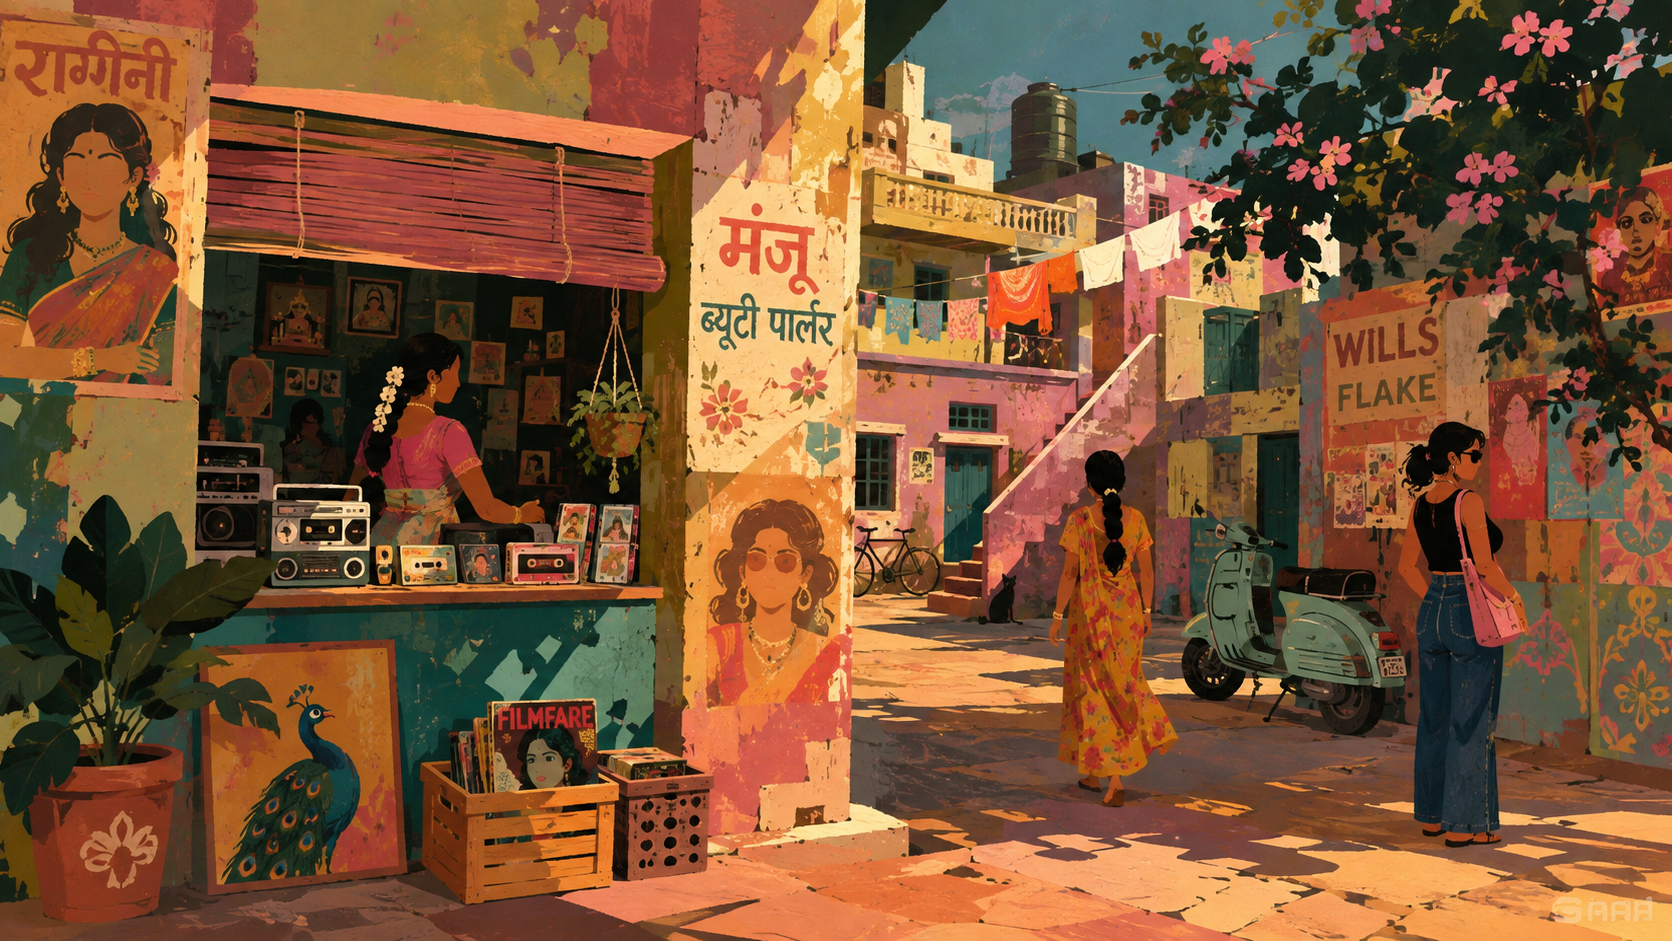
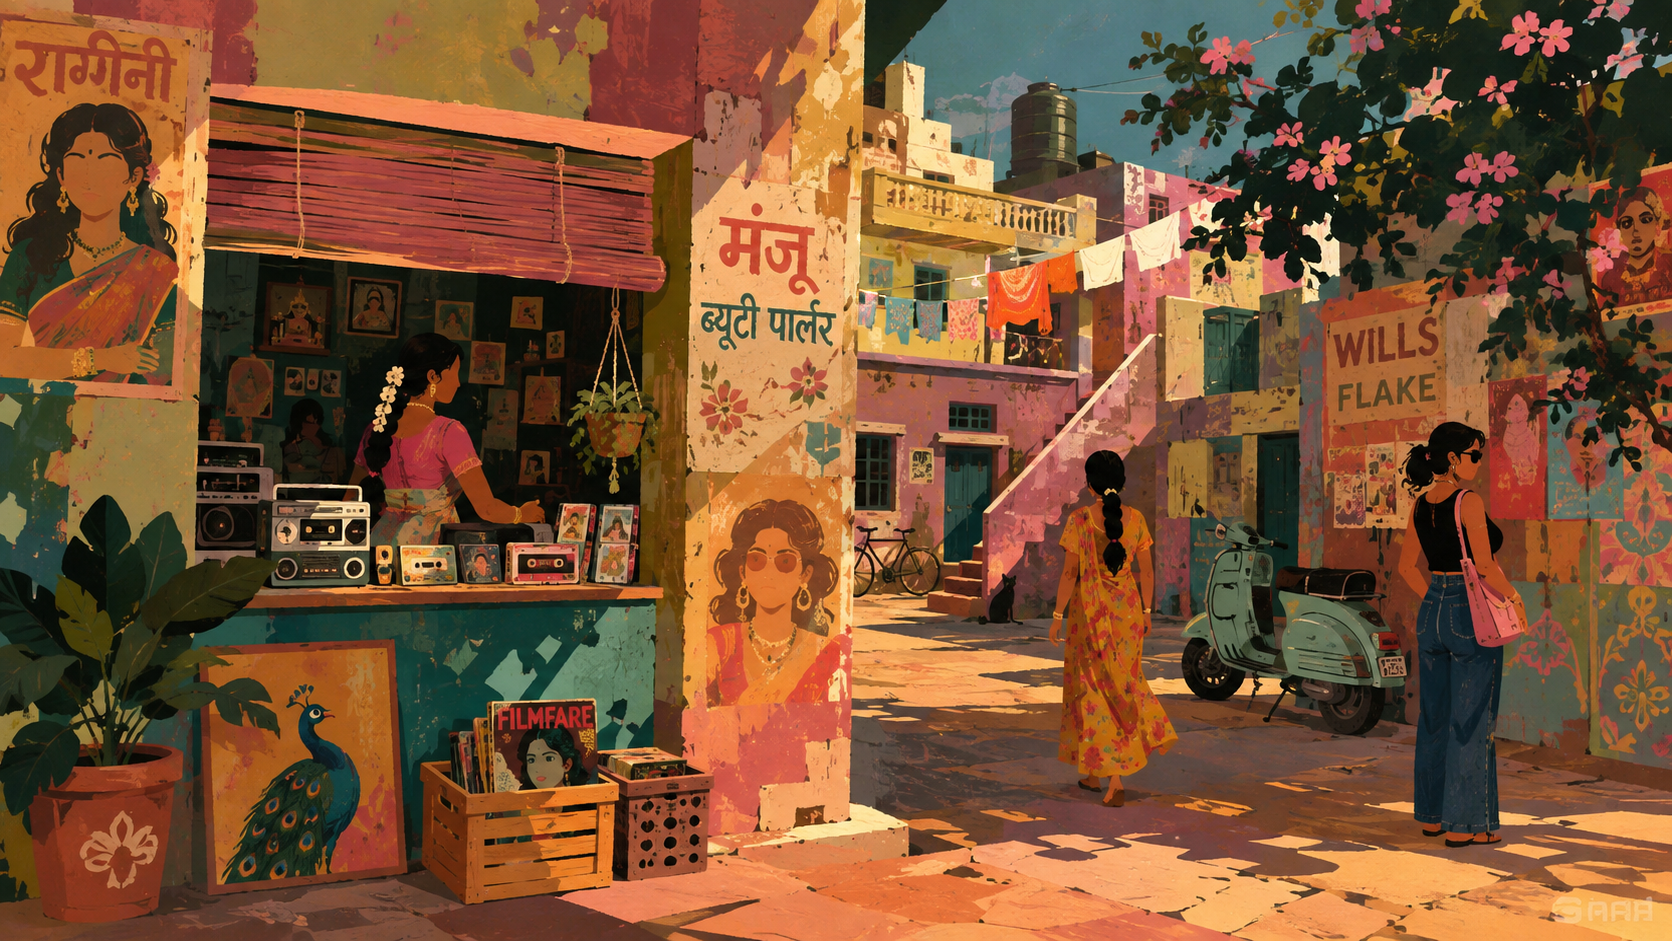
Update playlists and refine homepage

Changed region(s): [[0.4043, 0.339, 0.6531, 0.5855], [0.4976, 0.2157, 0.622, 0.339]]

diff --git a/app/page.tsx b/app/page.tsx
@@ -25,8 +25,13 @@ export default function HomePage() {
       <section className="relative z-10 flex min-h-dvh flex-col items-center px-6 pb-44 pt-[54vh] text-center sm:pt-[62vh]">
         <div className="w-full max-w-2xl">
 
-          {/* PICK YOUR SHOR */}
-          <p className="font-poppins mb-5 text-[12px] font-bold uppercase tracking-[0.18em] text-white">
+          <p className="font-poppins mb-6 -mt-6 text-[12.8px] font-semibold leading-relaxed text-white [text-shadow:0_2px_12px_rgba(0,0,0,0.9),0_0_4px_rgba(0,0,0,0.8)] max-sm:mt-0.5 max-sm:text-[14px] max-sm:text-white/65">
+  Welcome to Aishee’s multiverse. Mood badlo, mahol badlo, playlist badlo —
+  and most importantly, bas enjoy karo.
+</p>
+
+{/* PICK YOUR SHOR */}
+          <p className="font-poppins mb-5 mt-4 text-[12px] font-bold uppercase tracking-[0.18em] text-white sm:mt-10.5 max-sm:text-white/70">
             Pick your shor
           </p>
 
@@ -39,7 +44,8 @@ export default function HomePage() {
             >
               <div className="flex items-center justify-between">
                 <span className="text-xl text-white">
-                  शोर <span className="font-poppins text-white/55">Radio</span>
+                  <span className="text-[22.4px] sm:text-[19.4px]">शोर</span>{" "}
+<span className="font-poppins text-white/55">Radio</span>
                 </span>
 
                 <span className="text-xs text-white/40 transition group-hover:translate-x-1 group-hover:text-white/80">
@@ -80,7 +86,8 @@ export default function HomePage() {
             >
               <div className="flex items-center justify-between">
                 <span className="text-xl text-white">
-                  आइ<span className="font-poppins text-white/55">CONIC</span>
+<span className="text-[22.9px] sm:text-[19.9px]">आइ</span>
+                  <span className="font-poppins text-white/55">CONIC</span>
                 </span>
 
                 <span className="text-xs text-white/40 transition group-hover:translate-x-1 group-hover:text-white/80">
@@ -101,7 +108,7 @@ export default function HomePage() {
               <div className="flex items-center justify-between">
                 <span className="text-xl text-white">
   <span className="font-poppins">Peak</span>{" "}
-  <span className="text-white/55">सुन्दरता</span>
+  <span className="text-[22.4px] text-white/55 sm:text-[19.4px]">सुन्दरता</span>
 </span>
 
                 <span className="text-xs text-white/40 transition group-hover:translate-x-1 group-hover:text-white/80">
@@ -121,7 +128,9 @@ export default function HomePage() {
             >
               <div className="flex items-center justify-between">
                 <span className="text-xl text-white">
-                  देखो, <span className="font-poppins text-white/55">Magar Pyaar Se</span>
+                  <span className="text-[22.4px] sm:text-[19.4px]">देखो,</span>{" "}
+
+<span className="font-poppins text-white/55">Magar Pyaar Se</span>
                 </span>
 
                 <span className="text-xs text-white/40 transition group-hover:translate-x-1 group-hover:text-white/80">
@@ -141,7 +150,8 @@ export default function HomePage() {
             >
               <div className="flex items-center justify-between">
                 <span className="text-xl text-white">
-                  इश्क़ <span className="font-poppins text-white/55">- Vishq</span>
+                  <span className="text-[22.4px] sm:text-[19.4px]">इश्क़</span>{" "}
+<span className="font-poppins text-white/55">- Vishq</span>
                 </span>
 
                 <span className="text-xs text-white/40 transition group-hover:translate-x-1 group-hover:text-white/80">
@@ -162,7 +172,8 @@ export default function HomePage() {
 >
   <div className="flex items-center justify-between">
     <span className="text-xl text-white">
-      कशिश <span className="font-poppins text-white/55">- The Other Side</span>
+      <span className="text-[22.4px] sm:text-[19.4px]">कशिश</span>{" "}
+<span className="font-poppins text-white/55">- The Other Side</span>
     </span>
 
 <span className="text-xs text-white/40 transition group-hover:translate-x-1 group-hover:text-white/80">

diff --git a/app/components/Player.tsx b/app/components/Player.tsx
@@ -34,45 +34,60 @@ const SHOR_TRACKS: Track[] = [
     artist: "Shashwat Sachdev · Romy · Pawni Pandey",
   },
   {
-    id: "4vHRQnzGcKEtqsLH70tAms",
-    title: "Raanjhan",
-    artist: "Sachet-Parampara · Parampara Tandon",
-  },
-  {
     id: "7G5wpuR61ABrT7R1snos7C",
     title: "Kalank – Title Track",
     artist: "Pritam · Arijit Singh",
-  },
-  {
-    id: "2mVqfKbKGmxVXlVswhlI5T",
-    title: "Chaap Tilak",
-    artist: "Abida Parveen · Rahat Fateh Ali Khan",
-  },
-  {
-    id: "4gOjXXEwYz2WS9s6ixgUtd",
-    title: "Tani Sun La",
-    artist: "Vaibhav Bundhoo · Traditional",
   },
   {
     id: "6hVq4MGBhPIniEmpGbJIWR",
     title: "Hardum Humdum",
     artist: "Pritam · Arijit Singh",
   },
-  {
-    id: "2QophXhN2Ls2URfoPmiviC",
-    title: "Kho Gaye",
-    artist: "Taaruk Raina · Mismatched Cast",
+ {
+  id: "6U28uT3sr2xZlTniZEWiHI",
+  title: "Chaudhary",
+  artist: "Mame Khan",
   },
-  {
-    id: "4SrVkrpAyykhbVnATbfvPV",
-    title: "Dhadak – Title Track",
-    artist: "Ajay Gogavale · Shreya Ghoshal",
-  },
-  {
-    id: "2tEV3uJ6RlBiZPWaS7aJmb",
-    title: "Pehli Baar",
-    artist: "Ajay Gogavale",
-  },
+{
+  id: "3pRF060IEOI5XSQAvONgSt",
+  title: "Chale Jaise Hawayein",
+  artist: "K.K., Vasundhara Das",
+},
+{
+  id: "00slEv0AYGnW85H84XsmGz", 
+  title: "Phir Milenge Chalte Chalte",
+  artist: "Sonu Nigam",
+},
+{
+  id: "6kOuIhlzgPlqlrWPudpSHL",
+  title: "Dhadak Dhadak",
+  artist: "Adnan Sami, Sunidhi Chauhan, Udit Narayan",
+},
+{
+  id: "3ayMReTwLoo6jAg7adDqyz",
+  title: "Har Funn Maula",
+  artist: "Tanishk Bagchi, Zara Khan, Amitabh Bhattacharya",
+},
+ {
+  id: "3UwGbGK1pYHt3kXIgc895b",
+  title: "Babli Badmaash",
+  artist: "Sunidhi Chauhan",
+},
+{
+  id: "1UzYybFkJcyvB2hkL129GA",
+  title: "Go Go Govinda",
+  artist: "Mika Singh, Amrita Kak",
+},
+{
+  id: "6FT6cSP37XOgdxDDe2olAD",
+  title: "Radhe Radhe",
+  artist: "Amit Trivedi",
+},
+{
+  id: "3ndW5P3tLaoLSn30qURXB5",
+  title: "Jee Le",
+  artist: "Mohit Chauhan",
+},
   {
     id: "743ja6r6aTqAL00ynZGG2q",
     title: "Ei Srabon",
@@ -82,6 +97,21 @@ const SHOR_TRACKS: Track[] = [
     id: "77FL46gBFDDbKHJpQwc1b3",
     title: "Jawl Phoring",
     artist: "Silajit · Anupam Roy",
+  },
+  {
+    id: "2QophXhN2Ls2URfoPmiviC",
+    title: "Kho Gaye",
+    artist: "Taaruk Raina · Mismatched Cast",
+  },  
+  {
+    id: "2tEV3uJ6RlBiZPWaS7aJmb",
+    title: "Pehli Baar",
+    artist: "Ajay Gogavale",
+  },
+  {
+    id: "4SrVkrpAyykhbVnATbfvPV",
+    title: "Dhadak – Title Track",
+    artist: "Ajay Gogavale · Shreya Ghoshal",
   },
   {
     id: "3jxNbVmugKWFFc3YAVl0sD",
@@ -713,6 +743,11 @@ const ROMANTIC_TRACKS: Track[] = [
     artist: "Various Artists",
   },
   {
+  id: "7gw6rSstVq9CmuQAaZhWm8",
+  title: "Asalaam-e-Ishqum",
+  artist: "Vishal Dadlani, Sunidhi Chauhan",
+},
+{
     id: "5pQODzb8j3xMQ1qvrQXJvo",
     title: "Laung Da Lashkara",
     artist: "Various Artists",
@@ -1146,7 +1181,11 @@ const SENSUAL_TRACKS: Track[] = [
     artist: "Mikey McCleary",
     id:  "7Hd216xGh0HkQFtklXMfUM",
   },
-  
+  {
+  title: "Race Saanson Ki",
+  artist: "Neeraj Shridhar, Monali Thakur",
+  id: "79F3Cm8rSKxKs5l3RxXHIW",
+},
   {
     title: "I Don't Know What To Do",
     artist: "Shreya Ghoshal, Zubeen Garg",
@@ -1221,7 +1260,9 @@ function MixedFontText({ text }: { text: string }) {
     <>
       {parts.map((part, index) =>
         /[\u0900-\u097F]/.test(part) ? (
-          <span key={index}>{part}</span>
+          <span key={index} className="text-[1em]">
+  {part}
+</span>
         ) : (
           <span key={index} className="font-poppins">
             {part}

diff --git a/app/components/SiteChrome.tsx b/app/components/SiteChrome.tsx
@@ -83,7 +83,7 @@ export function SiteChrome({
     ${
       room
         ? "top-[10%] sm:top-[11%]"
-        : "top-[10%] sm:top-[6%]"
+        : "top-[10%] sm:top-[5.5%]"
     }
     ${
   room === "sensual"
@@ -102,7 +102,7 @@ export function SiteChrome({
     className={
   room
     ? "h-auto w-[min(72vw,300px)] brightness-95 drop-shadow-[0_8px_22px_rgba(0,0,0,.5)] sm:w-[min(34vw,320px)]"
-    : "h-auto w-[min(35vw,330px)] max-sm:w-[min(112vw,360px)] brightness-90 max-sm:brightness-97 drop-shadow-[0_8px_22px_rgba(0,0,0,.5)]"
+    : "h-auto w-[min(33vw,310px)] max-sm:w-[min(139vw,430px)] brightness-90 max-sm:brightness-94 drop-shadow-[0_8px_22px_rgba(0,0,0,.5)]"
 }
   />
 </div>
